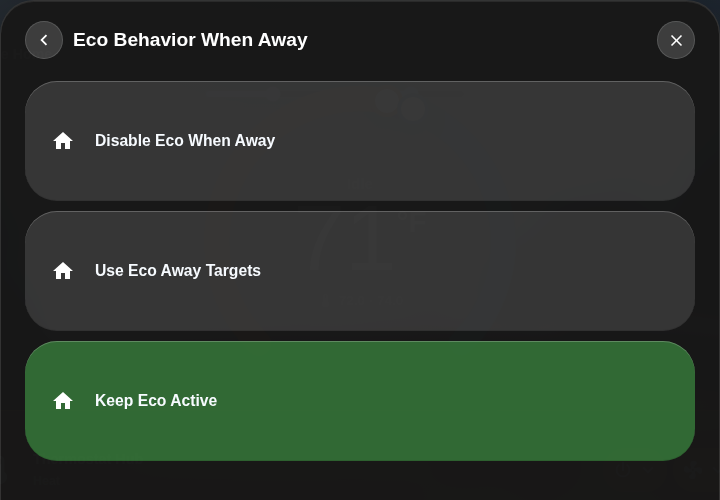
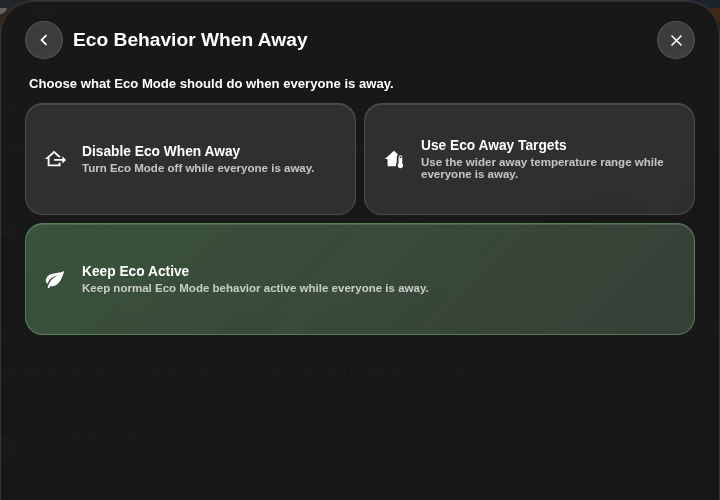
Finish thermostat route simplification
Complete direct Rooms, Automation, and Tracking navigation, preserve unavailable state, refresh focused tests, and update manual screenshots and inventories.

diff --git a/src/pages/DashboardViewPage.test.tsx b/src/pages/DashboardViewPage.test.tsx
@@ -2003,10 +2003,10 @@ describe('DashboardViewPage', () => {
     fireEvent.click(within(dialog).getByRole('button', { name: /Eco Mode Critical Tracking Track Select Critical/i }))
     expect(screen.getAllByRole('dialog')).toHaveLength(1)
     expect(within(dialog).getByRole('group', { name: 'Eco Mode Critical Tracking options' })).toHaveAttribute('data-dynamic-grid', 'true')
-    expect(within(dialog).getByRole('button', { name: 'Set Eco Mode Critical Tracking to Track Select Critical' })).toHaveAttribute('aria-pressed', 'true')
-    expect(within(dialog).getByRole('button', { name: 'Set Eco Mode Critical Tracking to Track Select Critical' })).toHaveAttribute('data-modal-detail-autofocus', 'true')
-    expect(within(dialog).getByRole('button', { name: 'Set Eco Mode Critical Tracking to Track All Critical' })).toHaveAttribute('aria-pressed', 'false')
-    fireEvent.click(within(dialog).getByRole('button', { name: 'Set Eco Mode Critical Tracking to Track All Critical' }))
+    expect(within(dialog).getByRole('button', { name: /^Set Eco Mode Critical Tracking to Track Select Critical:/ })).toHaveAttribute('aria-pressed', 'true')
+    expect(within(dialog).getByRole('button', { name: /^Set Eco Mode Critical Tracking to Track Select Critical:/ })).toHaveAttribute('data-modal-detail-autofocus', 'true')
+    expect(within(dialog).getByRole('button', { name: /^Set Eco Mode Critical Tracking to Track All Critical:/ })).toHaveAttribute('aria-pressed', 'false')
+    fireEvent.click(within(dialog).getByRole('button', { name: /^Set Eco Mode Critical Tracking to Track All Critical:/ }))
     expect(mockCallServiceCalls).toContainEqual({
       domain: 'select',
       service: 'select_option',
@@ -2047,6 +2047,30 @@ describe('DashboardViewPage', () => {
     ])
   })
 
+  it('keeps selected-room and critical-protection controls mapped to their HA switches', async () => {
+    render(<DashboardViewPage activePath="ecobee" onNavigate={() => undefined} path="ecobee" />)
+
+    const dialog = await openThermostatControls()
+    await clickIconModalTab(within(dialog), 'Tracking')
+    mockCallServiceCalls.length = 0
+
+    fireEvent.click(within(dialog).getByRole('button', { name: /Selected Rooms \d+ of 11 selected/i }))
+    fireEvent.click(within(dialog).getByRole('button', { name: 'Office' }))
+    fireEvent.click(within(dialog).getByRole('button', { name: 'Back to tracking' }))
+
+    fireEvent.click(within(dialog).getByRole('button', { name: /Critical Protection \d+ rooms forced/i }))
+    fireEvent.click(within(dialog).getByRole('button', { name: 'Music Room' }))
+    fireEvent.click(within(dialog).getByRole('button', { name: 'Back to tracking' }))
+
+    fireEvent.click(within(dialog).getByRole('switch', { name: 'Turn off Track Selected Rooms' }))
+
+    expect(mockCallServiceCalls).toEqual([
+      { domain: 'homeassistant', service: 'toggle', target: 'switch.thermostat_contact_sensors_track_office' },
+      { domain: 'homeassistant', service: 'toggle', target: 'switch.thermostat_contact_sensors_music_room_force_track_when_critical' },
+      { domain: 'homeassistant', service: 'toggle', target: 'switch.thermostat_contact_sensors_only_track_selected_rooms' },
+    ])
+  })
+
   it('keeps the Ecobee room modal title stable while closing', async () => {
     render(<DashboardViewPage activePath="ecobee" onNavigate={() => undefined} path="ecobee" />)
 
@@ -2060,6 +2084,19 @@ describe('DashboardViewPage', () => {
     if (closingDialog) {
       expect(within(closingDialog).getByRole('heading', { name: 'Living Room' })).toBeInTheDocument()
       expect(within(closingDialog).queryByRole('heading', { name: 'Thermostat' })).not.toBeInTheDocument()
+    }
+  })
+
+  it('reports unavailable selected-room tracking distinctly from off', () => {
+    const tracking = mockEntities['switch.thermostat_contact_sensors_only_track_selected_rooms']
+    const previousState = tracking.state
+    tracking.state = 'unavailable'
+
+    try {
+      render(<DashboardViewPage activePath="ecobee" onNavigate={() => undefined} path="ecobee" />)
+      expect(screen.getByRole('button', { name: /Open Room Tracking Selected tracking unavailable/i })).toBeInTheDocument()
+    } finally {
+      tracking.state = previousState
     }
   })
 
@@ -2078,6 +2115,7 @@ describe('DashboardViewPage', () => {
     fireEvent.click(predictiveComfort)
     expect(dialog).toHaveAttribute('data-surface', 'hass-popup')
     expect(within(dialog).getByRole('heading', { name: 'Predictive Comfort' })).toBeInTheDocument()
+    await waitFor(() => expect(dialog.querySelector('[data-modal-detail-autofocus="true"]')).toHaveFocus())
     expect(within(dialog).getByText(/^Idle$/i)).toBeInTheDocument()
     expect(within(dialog).getByRole('heading', { name: 'Controls' })).toBeInTheDocument()
     const autoAdjustDescription = within(dialog).getByText(/adjust the thermostat target before the house leaves the comfort range/i)

diff --git a/src/pages/DashboardViewPage.tsx b/src/pages/DashboardViewPage.tsx
@@ -5054,15 +5054,16 @@ function ThermostatOptionDetailPage({ detailType, onSelected }: { detailType: 'e
   return (
     <section className={styles.section}>
       <Description>{description}</Description>
-      <DynamicGrid ariaLabel={`${config.title} options`} className={styles.thermostatChoiceGrid} columns={2} gap={8}>
+      <DynamicGrid ariaLabel={`${config.title} options`} className={styles.thermostatChoiceGrid} columns={2} forceEquivalentColumnCount gap={8}>
         {control.options.map((option, index) => {
           const presentation = THERMOSTAT_OPTION_PRESENTATION[option.value]
           return (
             <ScheduleListRow
-              accessibleLabel={`Set ${config.title} to ${String(option.label)}`}
+              accessibleLabel={`Set ${config.title} to ${String(option.label)}: ${presentation?.description ?? ''}`.trim()}
               active={option.value === control.displayValue}
               autoFocus={option.value === control.displayValue || (!control.displayValue && index === 0)}
               disclosure={false}
+              dynamicGridLabel
               focusKey={option.value}
               icon={presentation?.icon ?? config.icon}
               iconSurface={false}
@@ -5428,6 +5429,7 @@ function useThermostatTrackingSummary() {
     entities[thermostatTrackEntityId(room)]?.state !== 'on'
     && entities[thermostatForceCriticalEntityId(room)]?.state === 'on'
   )).length
+  const selectedAvailable = trackSelectedState === 'on' || trackSelectedState === 'off'
   const selectedEnabled = trackSelectedState === 'on'
   const criticalEnabled = selectedEnabled && criticalPolicy === 'Track Select Critical'
 
@@ -5436,9 +5438,21 @@ function useThermostatTrackingSummary() {
     criticalEnabled,
     criticalPolicy: criticalPolicy ?? 'Unavailable',
     occupiedOnlyCount,
+    selectedAvailable,
     selectedCount,
     selectedEnabled,
   }
+}
+
+function thermostatTrackingPageSummary(summary: ReturnType<typeof useThermostatTrackingSummary>) {
+  const selected = !summary.selectedAvailable
+    ? 'Selected tracking unavailable'
+    : summary.selectedEnabled
+      ? `${summary.selectedCount} selected`
+      : 'Selected tracking off'
+  const occupied = `${summary.occupiedOnlyCount} occupied`
+  if (!summary.selectedAvailable || !summary.selectedEnabled || !summary.criticalEnabled) return `${selected} · ${occupied}`
+  return `${selected} · ${summary.criticalCount} critical · ${occupied}`
 }
 
 function ThermostatTrackingOpener({
@@ -5844,7 +5858,7 @@ function ThermostatModal({
       title={thermostatModalDetailTitle(detail)}
     >
       {detail?.type === 'room' && <ThermostatRoomModalContent room={detail.room} />}
-      {detail?.type === 'predictive' && <div data-modal-detail-autofocus="true"><PredictiveComfortModalContent /></div>}
+      {detail?.type === 'predictive' && <div className={styles.thermostatDetailPage} data-modal-detail-autofocus="true" tabIndex={-1}><PredictiveComfortModalContent /></div>}
       {(detail?.type === 'eco-away' || detail?.type === 'eco-critical') && <ThermostatOptionDetailPage detailType={detail.type} onSelected={closeDetail} />}
       {(detail?.type === 'selected-rooms' || detail?.type === 'critical-protection' || detail?.type === 'occupied-only') && <ThermostatTrackingDetailPage detailType={detail.type} />}
       {!detail && (
@@ -5902,7 +5916,7 @@ function ThermostatPageEntry({
         onClick={() => onOpen(hash)}
         subtitle={subtitle}
         title={title}
-        variant="wide"
+        variant="compact"
       />
     </section>
   )
@@ -5940,7 +5954,7 @@ function ThermostatPageEntries({ onOpen }: { onOpen: (hash: string) => void }) {
         icon="mdi:motion-sensor"
         onOpen={onOpen}
         sectionTitle="Tracking"
-        subtitle={`${trackingSummary.selectedCount} selected · ${trackingSummary.criticalCount} critical · ${trackingSummary.occupiedOnlyCount} occupied`}
+        subtitle={thermostatTrackingPageSummary(trackingSummary)}
         title="Open Room Tracking"
       />
     </div>

diff --git a/src/manual/screenshots.ts b/src/manual/screenshots.ts
@@ -203,15 +203,17 @@ export const MANUAL_SCREENSHOTS: ManualScreenshotConfig[] = [
     scenarioId: 'section-climate-context',
     requiredTargets: ['Rooms', 'Automation', 'Tracking', 'Open Room Thermostats', 'Open Automation', 'Open Room Tracking'],
     privacyClass: 'synthetic',
+    cropHeight: 560,
+    desktopCaptureWidth: 620,
+    desktopCropHeight: 580,
     desktopMaxWidth: 820,
     mobileMaxWidth: 310,
-    maxViewportHeightRatio: 0.9,
     cropSelector: '[data-thermostat-page-entrypoints="true"]',
-    cropHeight: 620,
+    maxViewportHeightRatio: 0.9,
     alsoUsedByArticleIds: ['thermostat-page-guide'],
     landingUse: {
       sectionId: 'climate',
-      caption: 'The Climate page explains Rooms, Automation, and Tracking before opening the matching tab in one shared sheet.',
+      caption: 'Each Climate entry explains what opens before navigating directly to its matching Thermostat tab.',
     },
     alt: 'Rooms, Automation, and Tracking entry points with explanatory text and synthetic state summaries.',
     caption: 'Each Climate entry explains what opens before navigating directly to its matching Thermostat tab.',
@@ -225,7 +227,7 @@ export const MANUAL_SCREENSHOTS: ManualScreenshotConfig[] = [
     requiredTargets: ['Groceries', "Stephen's Tasks"],
     privacyClass: 'synthetic',
     desktopMaxWidth: 820,
-    desktopCaptureWidth: 820,
+    desktopCaptureWidth: 700,
     cropSelector: '[aria-label="Chore quick links"]',
     cropHeight: 260,
     alsoUsedByArticleIds: [
@@ -733,8 +735,12 @@ export const MANUAL_SCREENSHOTS: ManualScreenshotConfig[] = [
     surfaceId: 'route:ecobee',
     role: 'overview',
     scenarioId: 'thermostat-options',
-    requiredTargets: ['Whole Home', 'Rooms', 'Automation', 'Tracking'],
+    requiredTargets: ['Whole Home', 'Thermostat Hub'],
     privacyClass: 'synthetic',
+    cropHeight: 610,
+    cropSelector: '[data-manual-route-context="ecobee"]',
+    desktopCaptureWidth: 820,
+    desktopCropHeight: 610,
     desktopMaxWidth: 820,
     alsoUsedByArticleIds: [
       'climate-section-overview',
@@ -749,8 +755,8 @@ export const MANUAL_SCREENSHOTS: ManualScreenshotConfig[] = [
       'task-adjust-thermostat',
       'task-configure-predictive-comfort',
     ],
-    alt: 'Climate page showing the Whole Home thermostat and the three explained Thermostat entry points.',
-    caption: 'The Climate page keeps the Whole Home dial visible and provides direct entry to Rooms, Automation, and Tracking.',
+    alt: 'Climate page showing the Whole Home thermostat and physical Thermostat Hub.',
+    caption: 'The top of the Climate page keeps the Whole Home target and physical Hub state immediately visible.',
   },
   {
     id: 'chore-schedule',

diff --git a/e2e/react-dash.spec.ts b/e2e/react-dash.spec.ts
@@ -1362,6 +1362,24 @@ test('thermostat page entry points deep link to their matching modal tabs', asyn
     await dialog.getByRole('button', { name: 'Close' }).click()
     await expect(dialog).toHaveCount(0)
   }
+
+  for (const entry of cases) {
+    await page.goto(`/at-a-glance/ecobee${entry.hash}`)
+    const dialog = page.getByRole('dialog', { name: 'Thermostat' })
+    await expect(dialog).toBeVisible()
+    await expect(dialog.getByRole('tab', { name: entry.tab })).toHaveAttribute('aria-selected', 'true')
+  }
+
+  await page.goto('/at-a-glance/ecobee')
+  const dialog = await openThermostatControls(page, 'Automation')
+  await dialog.getByRole('tab', { name: 'Tracking' }).click()
+  await expect(page).toHaveURL(/#thermostat-tracking$/)
+  await page.goBack()
+  await expect(page.getByRole('dialog')).toHaveCount(0)
+  await expect(page).toHaveURL(/\/at-a-glance\/ecobee$/)
+  await page.goForward()
+  await expect(page.getByRole('dialog', { name: 'Thermostat' })).toBeVisible()
+  await expect(page.getByRole('tab', { name: 'Tracking' })).toHaveAttribute('aria-selected', 'true')
 })
 
 test('thermostat modal uses root tabs and same-sheet detail pages', async ({ page }) => {
@@ -1380,6 +1398,7 @@ test('thermostat modal uses root tabs and same-sheet detail pages', async ({ pag
   await expect(dialog).toHaveAccessibleName('Eco Mode Critical Tracking')
   await expect(dialog.getByRole('group', { name: 'Eco Mode Critical Tracking options' })).toHaveAttribute('data-dynamic-grid', 'true')
   await dialog.getByRole('button', { name: 'Back to automation' }).click()
+  await expect(dialog.getByRole('button', { name: /Eco Mode Critical Tracking Track Select Critical/i })).toBeFocused()
 
   await dialog.getByRole('tab', { name: 'Tracking' }).click()
   await dialog.getByRole('button', { name: /Occupied Only 2 of 11 occupied only/i }).click()

diff --git a/src/manual/surfaceGuides.test.ts b/src/manual/surfaceGuides.test.ts
@@ -24,7 +24,7 @@ const EXPECTED_COUNTS = {
   'modal-tab': 32,
   'native-prompt': 13,
   'option-picker': 3,
-  'page-section': 142,
+  'page-section': 144,
   'quick-link': 5,
   'room-card': 116,
   route: 44,
@@ -39,15 +39,15 @@ describe('surface guide ownership contract', () => {
 
   it('keeps the expanded semantic inventory exact and fully owned', () => {
     expect(inventory.schemaVersion).toBe(3)
-    expect(inventory.counts.total).toBe(522)
+    expect(inventory.counts.total).toBe(524)
     expect(inventory.counts.byKind).toEqual(EXPECTED_COUNTS)
     expect(new Set(inventory.surfaces.map((surface) => surface.id)).size).toBe(inventory.surfaces.length)
     expect(inventory.surfaces.some((surface) => surface.id.includes('#'))).toBe(false)
 
     const coverage = deriveSurfaceCoverage(inventory, MANUAL_SURFACES)
     expect(coverage).toMatchObject({
-      total: 522,
-      covered: 522,
+      total: 524,
+      covered: 524,
       uncovered: 0,
       uncoveredSurfaceIds: [],
       ambiguousSurfaceIds: [],

diff --git a/src/components/core/ScheduleFlow.tsx b/src/components/core/ScheduleFlow.tsx
@@ -47,6 +47,7 @@ interface ScheduleListRowProps {
   active?: boolean
   disabled?: boolean
   disclosure?: boolean
+  dynamicGridLabel?: boolean
   focusKey: string
   icon?: string
   iconSurface?: boolean
@@ -144,6 +145,7 @@ export function ScheduleListRow({
   autoFocus = false,
   disabled = false,
   disclosure = true,
+  dynamicGridLabel = false,
   focusKey,
   icon = 'mdi:calendar',
   iconSurface = true,
@@ -174,8 +176,8 @@ export function ScheduleListRow({
         <span className={styles.rowIcon}>
           <MaterialIcon name={icon} size={22} />
         </span>
-        <span className={styles.rowText}>
-          <strong>{primary}</strong>
+        <span className={styles.rowText} data-dynamic-grid-label-container={dynamicGridLabel ? 'true' : undefined}>
+          <strong data-dynamic-grid-label={dynamicGridLabel ? 'true' : undefined}>{primary}</strong>
           {secondary && <span>{secondary}</span>}
           {tertiary && <small>{tertiary}</small>}
         </span>

diff --git a/e2e/manual-screenshots.spec.ts b/e2e/manual-screenshots.spec.ts
@@ -601,6 +601,9 @@ test('security-camera-controls', async ({ page }) => {
 test('section-climate-context', async ({ page }) => {
   await page.goto('/index.html?path=ecobee')
   await pageMain(page, 'Thermostat')
+  await page.getByRole('navigation', { name: 'Dashboard sections' }).evaluate((element) => {
+    element.style.display = 'none'
+  })
   const subject = configuredCrop(page, 'section-climate-context')
   await subject.scrollIntoViewIfNeeded()
   await expect(subject.getByRole('button', { name: /Open Room Thermostats 11 rooms/i })).toBeVisible()

diff --git a/src/manual/surfaceInventory.test.ts b/src/manual/surfaceInventory.test.ts
@@ -115,8 +115,8 @@ describe('derived App Manual surface inventory', () => {
       matchKind: 'family-source-id',
     }])
     expect(coverage.ambiguousSurfaceIds).toEqual([])
-    expect(coverage.total).toBe(522)
-    expect(coverage.covered).toBe(522)
+    expect(coverage.total).toBe(524)
+    expect(coverage.covered).toBe(524)
     expect(coverage.uncovered).toBe(0)
     expect(coverage.byKind.route).toEqual({ total: 44, covered: 44, uncovered: 0 })
     expect(Object.values(coverage.byKind).every((count) => count.uncovered === 0)).toBe(true)

diff --git a/src/hooks/useModalDetailPageScroll.ts b/src/hooks/useModalDetailPageScroll.ts
@@ -11,6 +11,7 @@ interface DetailPageSnapshot {
 
 function modalDetailFocusTarget(element: HTMLElement | null | undefined) {
   if (!element) return null
+  if (element.hasAttribute('data-modal-detail-autofocus') && element.hasAttribute('tabindex')) return element
   if (element.matches('button, [href], input, select, textarea, [tabindex]:not([tabindex="-1"])')) return element
   return element.querySelector<HTMLElement>('button, [href], input, select, textarea, [tabindex]:not([tabindex="-1"])') ?? element
 }

diff --git a/src/pages/DashboardViewPage.module.css b/src/pages/DashboardViewPage.module.css
@@ -1051,6 +1051,10 @@ button.thermostatGlassMain {
   gap: 8px;
 }
 
+.thermostatDetailPage:focus {
+  outline: none;
+}
+
 .thermostatChoiceGrid [data-schedule-list-row],
 .thermostatChoiceGrid [data-schedule-list-row] > button,
 .thermostatTrackingGrid > [data-dynamic-grid-cell='true'] > button {
